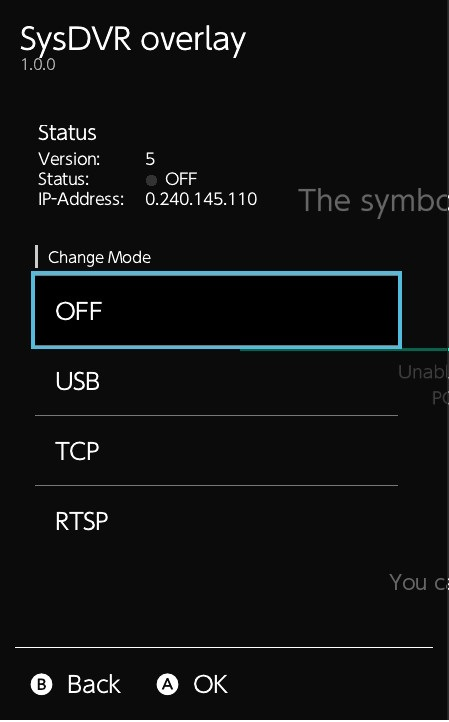
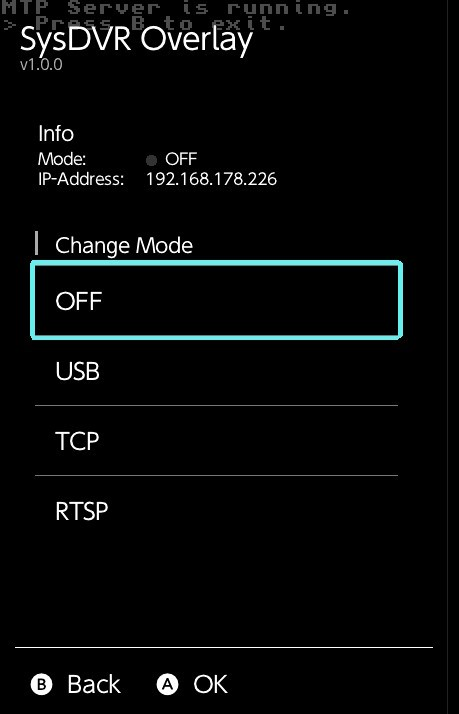
small changes and refactorings for the release

diff --git a/source/main.cpp b/source/main.cpp
@@ -20,7 +20,6 @@ private:
     Service* dvrService;
     bool gotService = false;
     u32 version, mode, ipAddress;
-    std::string versionString;
     std::string modeString;
     char ipString[20];
     u32 statusColor = 0;
@@ -41,16 +40,15 @@ public:
         auto list = new tsl::elm::List();
 
         if(!gotService) {   
-            list->addItem(getErrorDrawer("Failed to setup SysDVR Service!", "Is sysdvr running?"), getErrorDrawerSize());
+            list->addItem(getErrorDrawer("Failed to setup SysDVR Service!\nIs sysdvr running?"), getErrorDrawerSize());
             frame->setContent(list);
             return frame;
         }
         
         sysDvrGetVersion(&version);
-        versionString = std::to_string(version);
 
         if(version!=SYSDVR_VERSION) {
-            list->addItem(getErrorDrawer("Unkown SysDVR API version", "Only version 5 is supported"), getErrorDrawerSize());
+            list->addItem(getErrorDrawer("Unkown SysDVR Config API: v"+ std::to_string(version) +"\nOnly Config API v5 is supported"), getErrorDrawerSize());
             frame->setContent(list);
             return frame;
         }
@@ -62,19 +60,16 @@ public:
         updateIP(newIp);
 
         auto infodrawer = new tsl::elm::CustomDrawer([this](tsl::gfx::Renderer *renderer, s32 x, s32 y, s32 w, s32 h) {
-            renderer->drawString("Status", false, x + 3, y + 15, 20, renderer->a(0xFFFF));
-            renderer->drawString("Version:", false, x + 3, y + 40, 16, renderer->a(0xFFFF));
-            renderer->drawString("Status:", false, x + 3, y + 60, 16, renderer->a(0xFFFF));
-            renderer->drawString("IP-Address:", false, x + 3, y + 80, 16, renderer->a(0xFFFF));
+            renderer->drawString("Info", false, x + 3, y + 16, 20, renderer->a(0xFFFF));
+            renderer->drawString("Mode:", false, x + 3, y + 40, 16, renderer->a(0xFFFF));
+            renderer->drawString("IP-Address:", false, x + 3, y + 60, 16, renderer->a(0xFFFF));
             
-            renderer->drawString(versionString.c_str(), false, x + 110, y + 40, 16, renderer->a(0xFFFF));
-            
-            renderer->drawCircle(x + 116, y + 55, 5, true, renderer->a(statusColor));
-            renderer->drawString(modeString.c_str(), false, x + 130, y + 60, 16, renderer->a(0xFFFF));
+            renderer->drawCircle(x + 116, y + 35, 5, true, renderer->a(statusColor));
+            renderer->drawString(modeString.c_str(), false, x + 130, y + 40, 16, renderer->a(0xFFFF));
 
-            renderer->drawString(ipString, false, x + 110, y + 80, 16, renderer->a(0xFFFF));
+            renderer->drawString(ipString, false, x + 110, y + 60, 16, renderer->a(0xFFFF));
         });
-        list->addItem(infodrawer, 80);
+        list->addItem(infodrawer, 70);
 
         // List Items
         list->addItem(new tsl::elm::CategoryHeader("Change Mode"));
@@ -102,10 +97,9 @@ public:
         return frame;
     }
 
-    tsl::elm::CustomDrawer* getErrorDrawer(std::string message1, std::string message2){
-        return new tsl::elm::CustomDrawer([message1, message2](tsl::gfx::Renderer *renderer, s32 x, s32 y, s32 w, s32 h) {
+    tsl::elm::CustomDrawer* getErrorDrawer(std::string message1){
+        return new tsl::elm::CustomDrawer([message1](tsl::gfx::Renderer *renderer, s32 x, s32 y, s32 w, s32 h) {
             renderer->drawString(message1.c_str(), false, x + 3, y + 15, 20, renderer->a(0xF22F));
-            renderer->drawString(message2.c_str(), false, x + 3, y + 45, 20, renderer->a(0xF22F));
         });
     }
 
